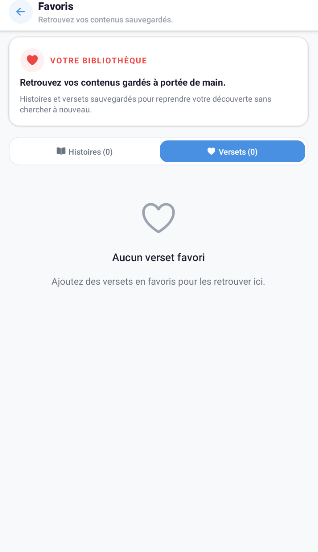
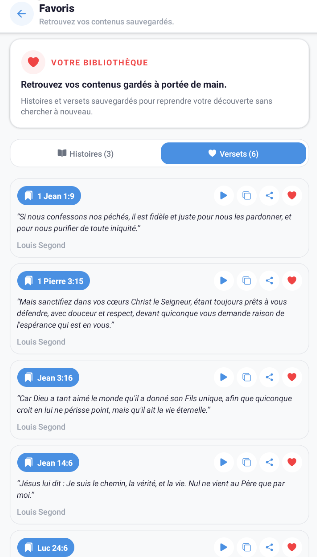
Update word and picture

diff --git a/script.js b/script.js
@@ -8,13 +8,14 @@
 /* Phone mockup — 8 écrans phares */
 const PHONE_SCREENSHOTS = [
     'img/onboarding1.png',
-    'img/home.png',
+    'img/home1.png',
     'img/discover.png',
     'img/prayScreen.png',
     'img/storyDetail.png',
     'img/gameScreen.png',
     'img/favorite.png',
     'img/themeDetail.png',
+    'img/sitting.png',
 ];
 
 /* Galerie — 22 screenshots avec légendes spirituelles */
@@ -23,7 +24,8 @@ const GALLERY_SCREENSHOTS = [
     { url: 'img/onboarding2.png',       caption: 'Explorez les Thèmes' },
     { url: 'img/onboarding3.png',       caption: 'Testez vos connaissances' },
     { url: 'img/onboarding4.png',       caption: 'Progressez et decouvrez' },
-    { url: 'img/home.png',              caption: 'Écran d\'accueil' },
+    { url: 'img/home1.png',              caption: 'Écran d\'accueil' },
+    // { url: 'img/home.png',              caption: 'Écran d\'accueil' },
     { url: 'img/discover.png',          caption: 'Découvertes spirituelles' },
     { url: 'img/storyDetail.png',       caption: 'Récit biblique' },
     { url: 'img/prayScreen.png',        caption: 'Espace prière' },
